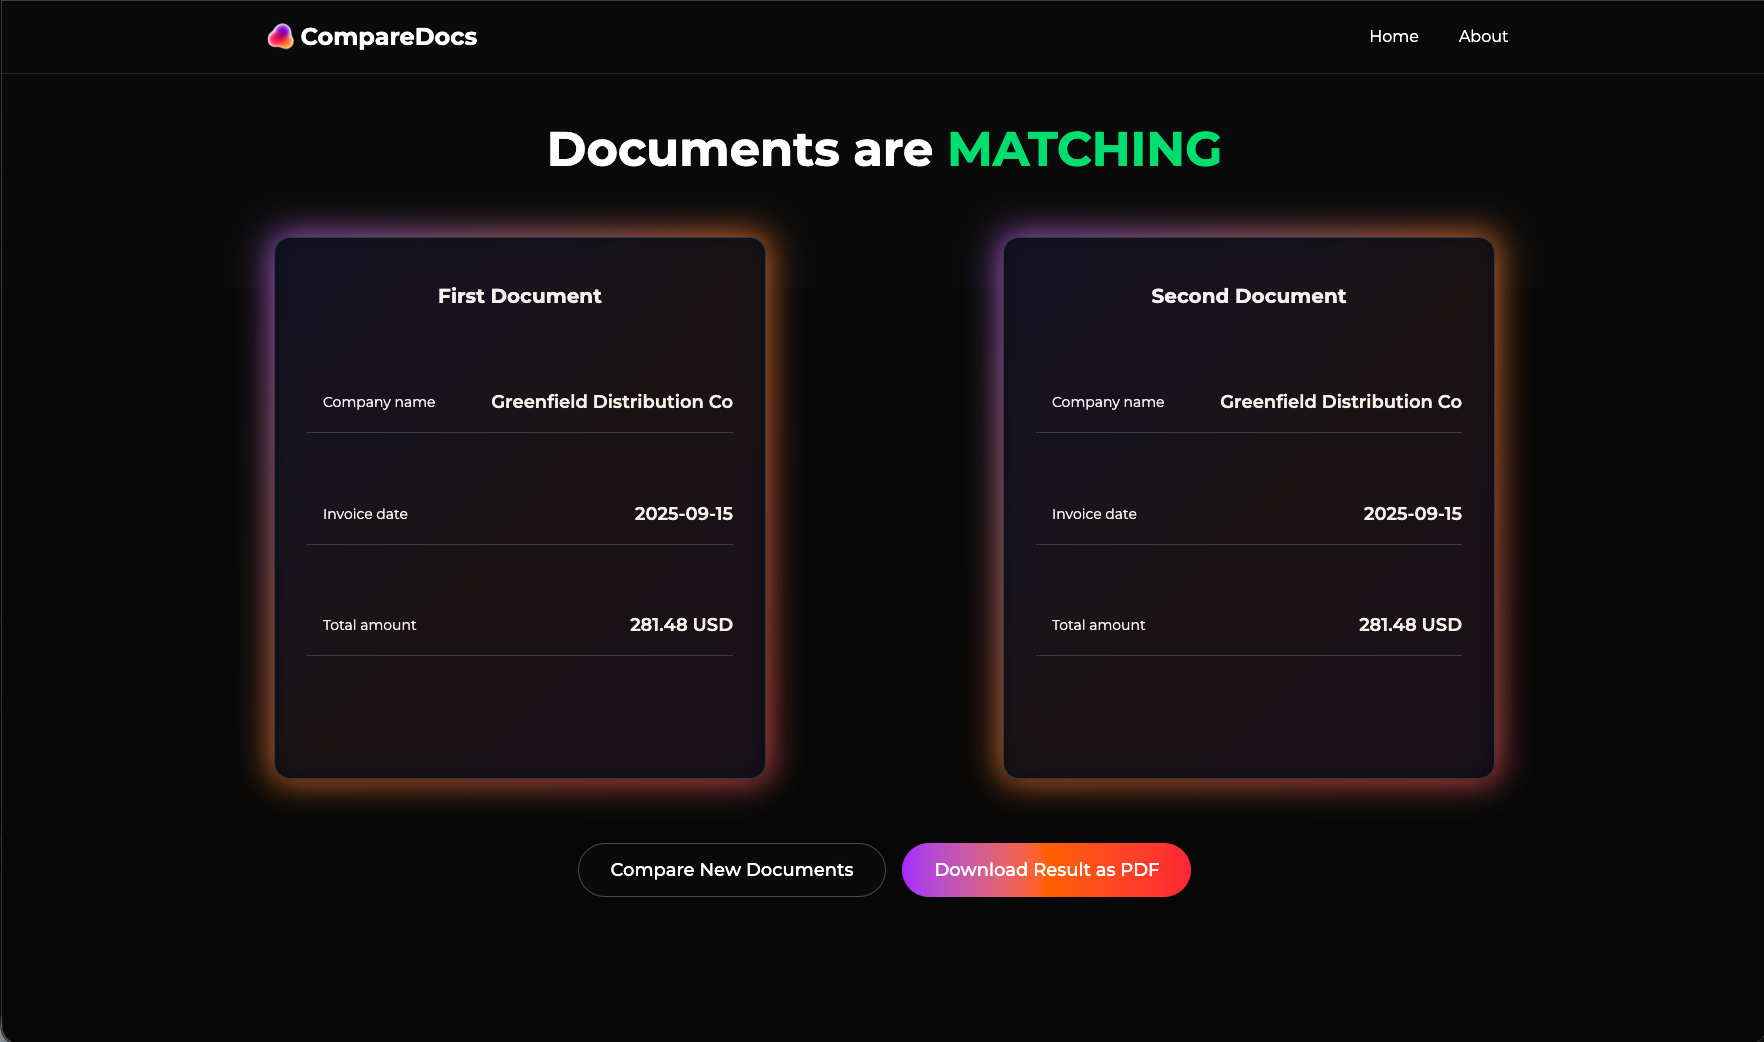
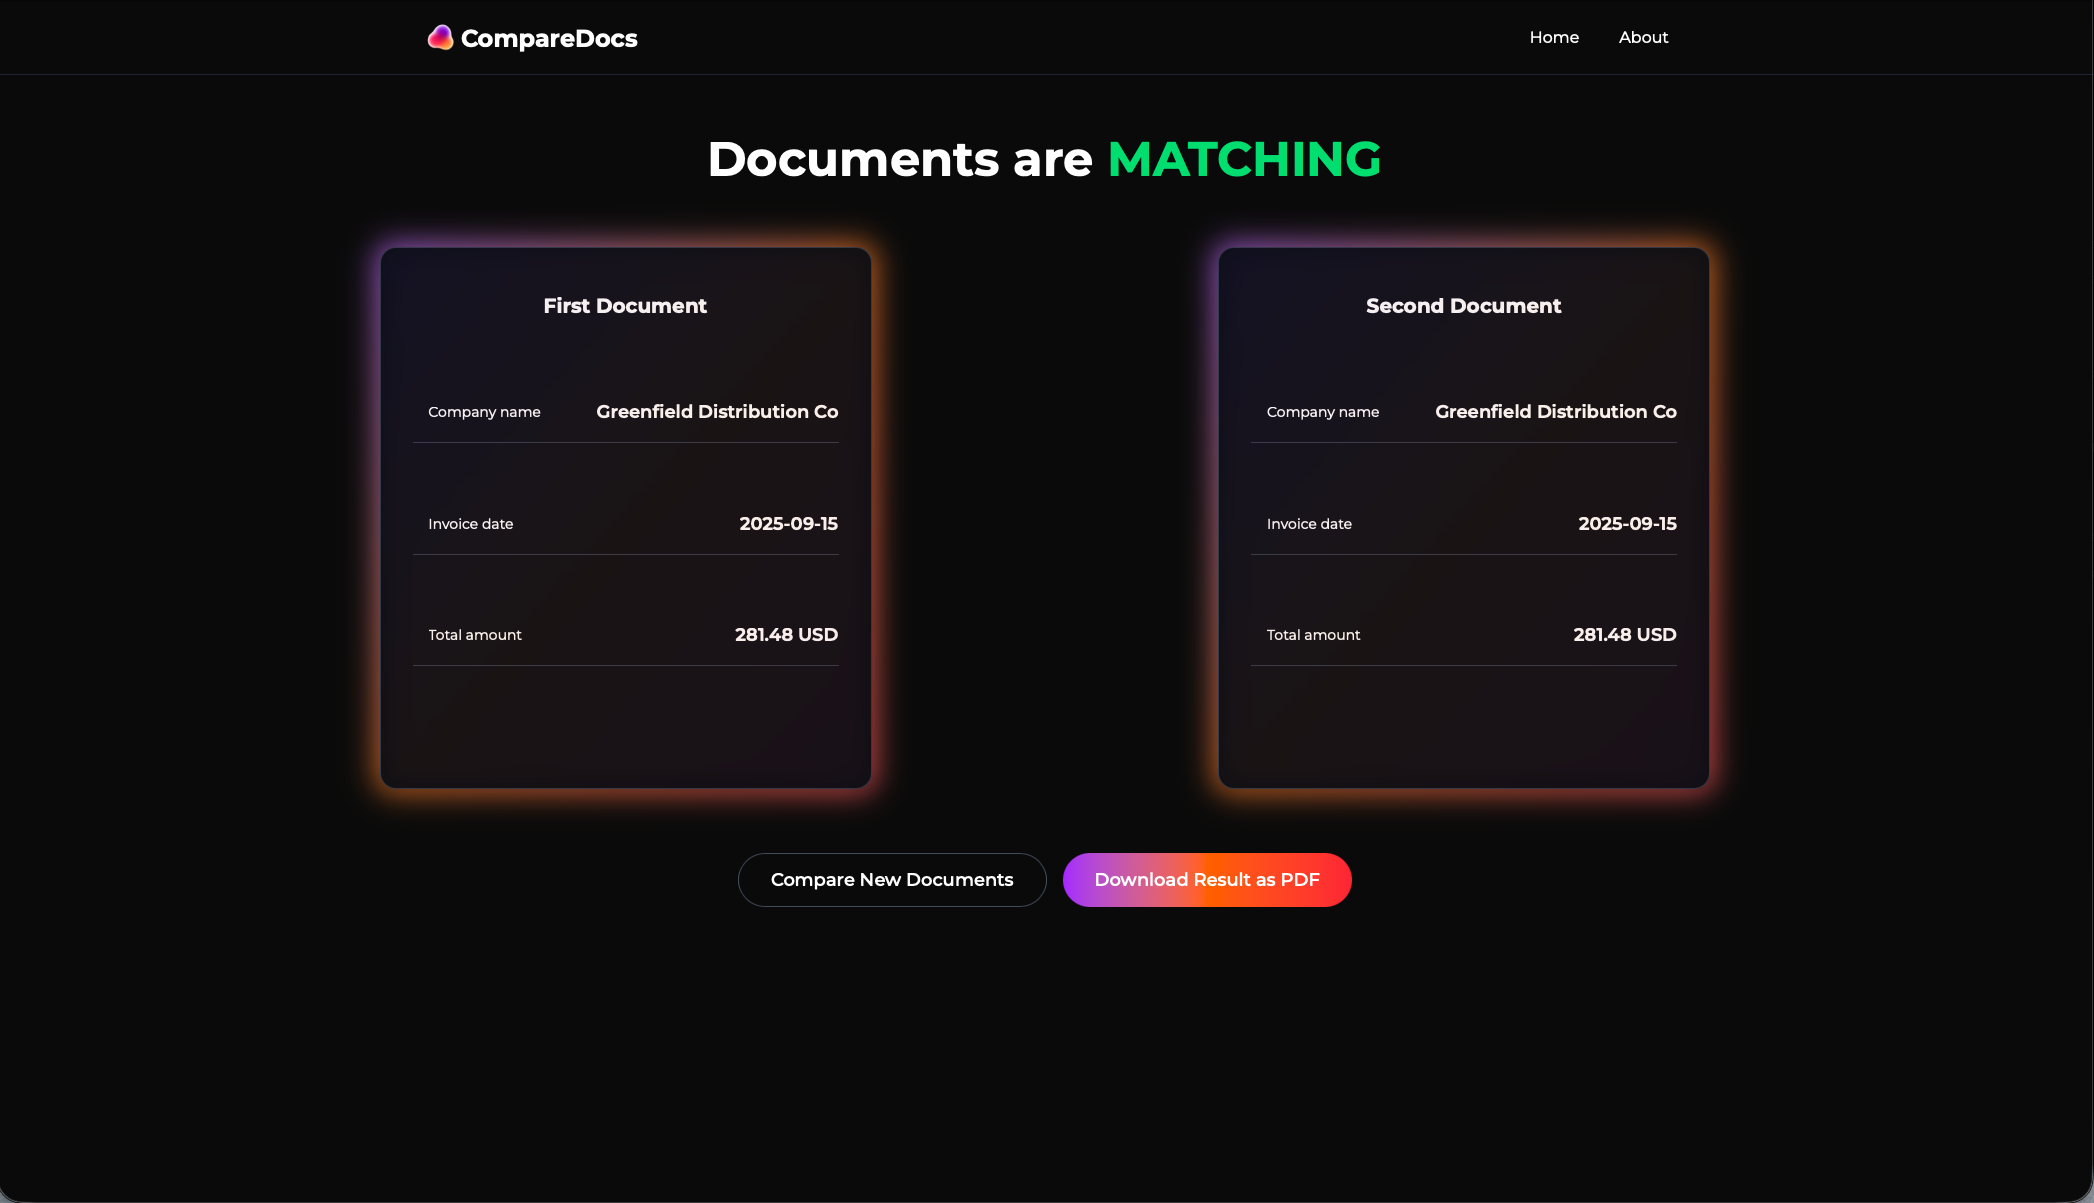
screenshot changed

diff --git a/README.md b/README.md
@@ -75,5 +75,8 @@ Open the Vite URL (usually `http://localhost:5173`).
 
 ## Screenshots
 ![Uploaded Documents](frontend/public/images/screenshots/docs_uploaded.png)
+Documents uploaded
 ![Comparison Result](frontend/public/images/screenshots/comparison_summary.png)
+Comparison result
 ![PDF export](frontend/public/images/screenshots/pdf_export.png)
+Exported pdf
